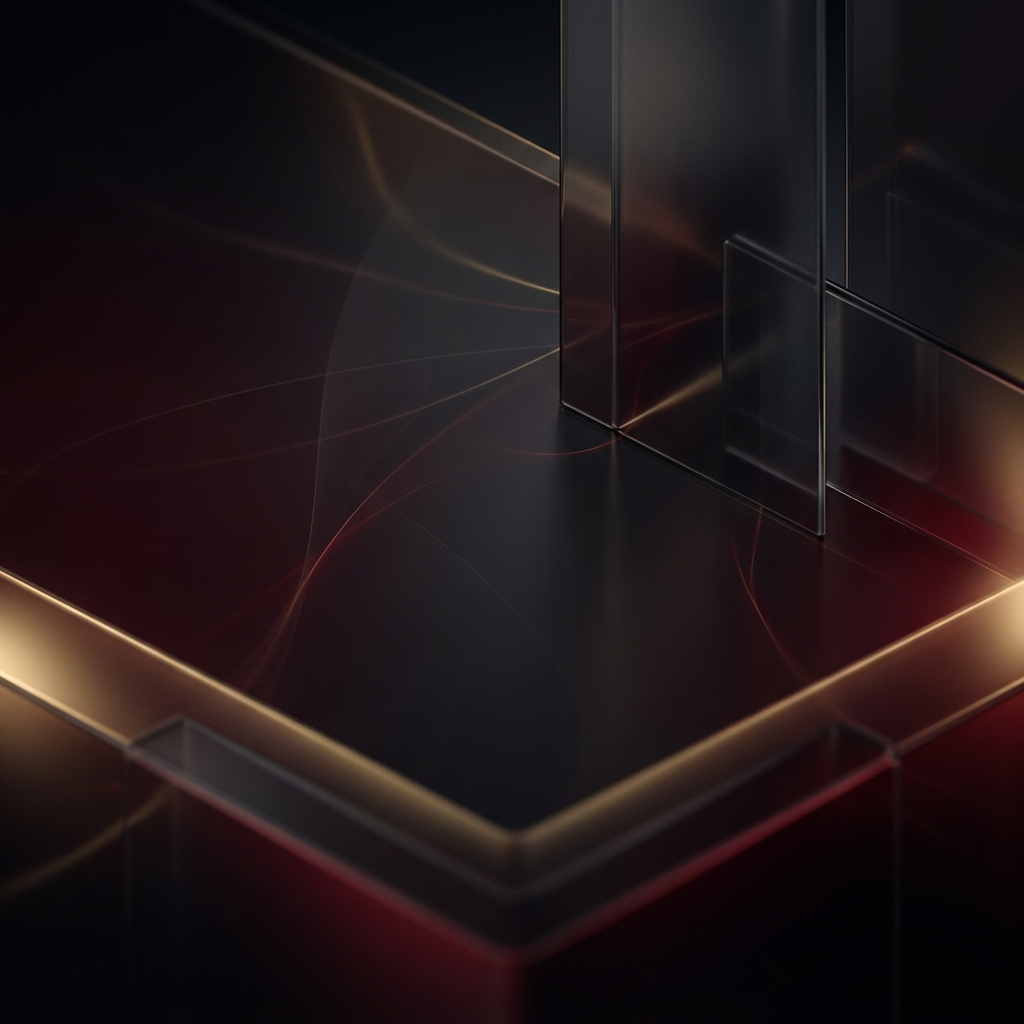
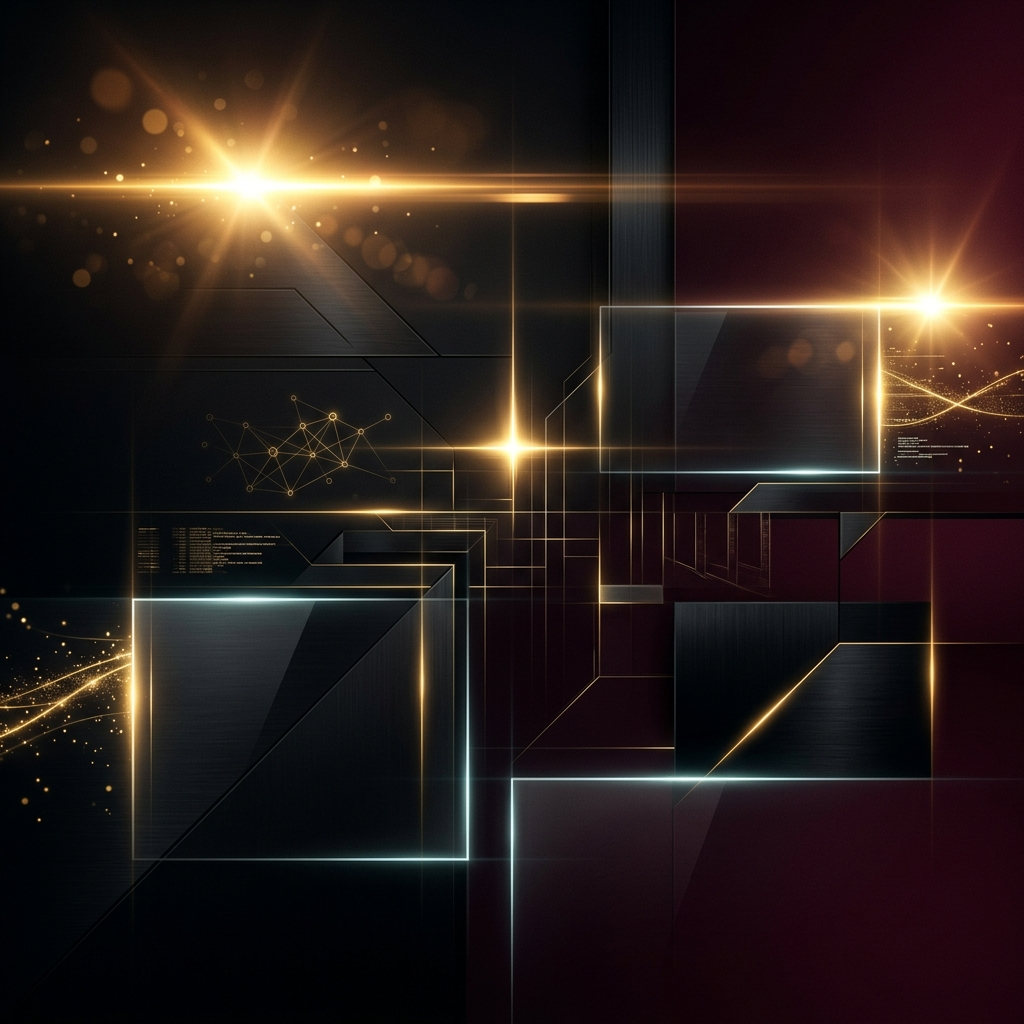
style: fix inline dark colors on cards and add bright flare background

diff --git a/src/pages/dashboard.jsx b/src/pages/dashboard.jsx
@@ -200,7 +200,7 @@ function ClientDash() {
           align-items: center;
           justify-content: center;
           font-size: 1rem;
-          color: #1A0A0D;
+          color: #fff;
           font-weight: 800;
           box-shadow: 0 4px 15px rgba(0,0,0,0.3);
           position: relative;
@@ -244,9 +244,9 @@ function ClientDash() {
             <div key={b._id} className="case-card-premium">
               <div style={s.biIcon}><Scale size={24} color="#7B1D2E" /></div>
               <div style={{flex:1}}>
-                <div style={{fontWeight:800,fontSize:'1.1rem', color:'#1A0A0D', marginBottom:4}}>{b.lawyerName}</div>
-                <div style={{fontSize:'0.85rem',color:'#5A3A42', fontWeight:600}}>{b.caseType} &nbsp;&bull;&nbsp; {fmt(b.scheduledDate)} at {b.scheduledTime}</div>
-                <div style={{fontSize:'0.85rem',color:'#5A3A42', fontWeight:600, marginTop:4}}>Case # {b.caseNumber} &nbsp;&bull;&nbsp; Fee: ₹{(b.fee||0).toLocaleString()}</div>
+                <div style={{fontWeight:800,fontSize:'1.1rem', color:'#fff', marginBottom:4}}>{b.lawyerName}</div>
+                <div style={{fontSize:'0.85rem',color:'#A09B9C', fontWeight:600}}>{b.caseType} &nbsp;&bull;&nbsp; {fmt(b.scheduledDate)} at {b.scheduledTime}</div>
+                <div style={{fontSize:'0.85rem',color:'#A09B9C', fontWeight:600, marginTop:4}}>Case # {b.caseNumber} &nbsp;&bull;&nbsp; Fee: ₹{(b.fee||0).toLocaleString()}</div>
                 {b.meetingLink && <a href={b.meetingLink} target="_blank" rel="noreferrer" style={{fontSize:'0.85rem',color:'#fff',fontWeight:800,marginTop:16,display:'inline-flex',alignItems:'center',gap:8, background:'#7B1D2E', padding:'.7rem 1.4rem', borderRadius: 12, textDecoration:'none', boxShadow:'0 6px 20px rgba(123, 29, 46, 0.25)'}}><Video size={16}/> Join Video Consultation</a>}
               </div>
               <StatusBadge status={b.status} />
@@ -287,8 +287,8 @@ function ClientDash() {
                 <div key={c.id} className="case-card-premium">
                   <div style={s.biIcon}><Briefcase size={24} color="#7B1D2E" /></div>
                   <div style={{flex:1}}>
-                    <div style={{fontWeight:800, fontSize:'1.1rem', marginBottom:4, color:'#1A0A0D'}}>{c.caseNumber}</div>
-                    <div style={{fontSize:'.85rem', color:'#5A3A42', fontWeight:600}}>{c.courtName} &nbsp;&bull;&nbsp; {c.lawyerName || 'Advocate not specified'}</div>
+                    <div style={{fontWeight:800, fontSize:'1.1rem', marginBottom:4, color:'#fff'}}>{c.caseNumber}</div>
+                    <div style={{fontSize:'.85rem', color:'#A09B9C', fontWeight:600}}>{c.courtName} &nbsp;&bull;&nbsp; {c.lawyerName || 'Advocate not specified'}</div>
                     {c.nextHearing && <div style={{fontSize:'.85rem', color:'#7B1D2E', fontWeight:800, marginTop:8, display:'inline-flex', alignItems:'center', gap:6, background: 'rgba(123, 29, 46, 0.05)', padding: '0.4rem 0.8rem', borderRadius: 8}}><Calendar size={14}/> Next Hearing: {fmt(c.nextHearing)}</div>}
                     <div style={{display:'flex', gap:10, marginTop:16}}>
                       <button className="btn btn-outline" onClick={() => showToast('Simulating document upload...')}>
@@ -320,9 +320,9 @@ function ClientDash() {
             <div key={c._id} className="case-card-premium">
               <div style={s.biIcon}><Scale size={24} color="#7B1D2E" /></div>
               <div style={{flex: 1}}>
-                <div style={{fontWeight:800, fontSize:'1.1rem', color:'#1A0A0D', marginBottom:4}}>{c.caseType}</div>
-                <div style={{fontSize:'0.85rem', color:'#5A3A42', fontWeight:600}}>Lawyer: {c.lawyerName}</div>
-                <div style={{fontSize:'0.85rem', color:'#5A3A42', fontWeight:600, marginTop:4}}>Case # {c.caseNumber} &nbsp;&bull;&nbsp; {fmt(c.scheduledDate)}</div>
+                <div style={{fontWeight:800, fontSize:'1.1rem', color:'#fff', marginBottom:4}}>{c.caseType}</div>
+                <div style={{fontSize:'0.85rem', color:'#A09B9C', fontWeight:600}}>Lawyer: {c.lawyerName}</div>
+                <div style={{fontSize:'0.85rem', color:'#A09B9C', fontWeight:600, marginTop:4}}>Case # {c.caseNumber} &nbsp;&bull;&nbsp; {fmt(c.scheduledDate)}</div>
                 
                 {c.meetingLink && (
                   <a href={c.meetingLink} target="_blank" rel="noreferrer" style={{fontSize:'0.85rem', color:'#fff', fontWeight:800, marginTop:16, display:'inline-flex', alignItems:'center', gap:8, background:'#7B1D2E', padding:'.7rem 1.4rem', borderRadius: 12, textDecoration:'none', boxShadow:'0 6px 20px rgba(123, 29, 46, 0.25)'}}>
@@ -331,10 +331,10 @@ function ClientDash() {
                 )}
                 
                 {c.updates?.length > 0 && (
-                  <div style={{marginTop: 16, background: '#FDF6EE', padding: '16px', borderRadius: 12, border: '1px solid rgba(123, 29, 46, 0.05)'}}>
+                  <div style={{marginTop: 16, background: 'rgba(0, 0, 0, 0.3)', padding: '16px', borderRadius: 12, border: '1px solid rgba(123, 29, 46, 0.05)'}}>
                     <div style={{fontSize:'.75rem', textTransform:'uppercase', fontWeight:800, color:'#C9943A', marginBottom:8}}>Latest Update</div>
-                    <div style={{fontWeight:700, fontSize:'.9rem', color:'#1A0A0D'}}>{c.updates[c.updates.length-1].title}</div>
-                    <div style={{fontSize:'.85rem', color:'#5A3A42', marginTop:4}}>{c.updates[c.updates.length-1].description}</div>
+                    <div style={{fontWeight:700, fontSize:'.9rem', color:'#fff'}}>{c.updates[c.updates.length-1].title}</div>
+                    <div style={{fontSize:'.85rem', color:'#A09B9C', marginTop:4}}>{c.updates[c.updates.length-1].description}</div>
                   </div>
                 )}
               </div>
@@ -364,8 +364,8 @@ function ClientDash() {
             <div key={d._id} className="case-card-premium">
               <div style={s.biIcon}><FileText size={24} color="#7B1D2E" /></div>
               <div style={{flex: 1}}>
-                <div style={{fontWeight:800, fontSize:'1.1rem', color:'#1A0A0D', marginBottom:4}}>{d.title}</div>
-                <div style={{fontSize:'0.85rem', color:'#5A3A42', fontWeight:600}}>Created {fmt(d.createdAt)}</div>
+                <div style={{fontWeight:800, fontSize:'1.1rem', color:'#fff', marginBottom:4}}>{d.title}</div>
+                <div style={{fontSize:'0.85rem', color:'#A09B9C', fontWeight:600}}>Created {fmt(d.createdAt)}</div>
               </div>
               <div style={{display:'flex', gap:12}}>
                 <button className="btn btn-outline" style={{padding: '0.6rem 1.2rem'}} onClick={() => window.open(d.fileUrl, '_blank')}><Download size={16}/> Download</button>
@@ -390,8 +390,8 @@ function ClientDash() {
                   </div>
                   <div style={{flex:1}}>
                     <div style={{fontWeight:800,fontSize:'1.1rem', color: '#fff', marginBottom: 6}}>{u.title}</div>
-                    <div style={{fontSize:'0.95rem',color:'#5A3A42', lineHeight:1.6}}>{u.description}</div>
-                    <div style={{fontSize:'0.8rem',color:'#5A3A42',marginTop:12, fontWeight:700, textTransform: 'uppercase', letterSpacing: '0.5px'}}>
+                    <div style={{fontSize:'0.95rem',color:'#A09B9C', lineHeight:1.6}}>{u.description}</div>
+                    <div style={{fontSize:'0.8rem',color:'#A09B9C',marginTop:12, fontWeight:700, textTransform: 'uppercase', letterSpacing: '0.5px'}}>
                       Case #{u.caseNumber} &nbsp;&bull;&nbsp; {fmt(u.createdAt)} &nbsp;&bull;&nbsp; Stage: {u.stage}
                     </div>
                   </div>
@@ -405,7 +405,7 @@ function ClientDash() {
       {tab === 'settings' && (
         <div style={s.section} className="dash-section-responsive">
           <h3 style={{...s.hTitle, marginBottom:'1.5rem'}}>Account Settings</h3>
-          <div style={{background:'#FDF6EE', border:'1px solid rgba(123, 29, 46, 0.05)', borderRadius:24, padding:'3rem', boxShadow: '0 10px 30px rgba(123, 29, 46, 0.05)'}}>
+          <div style={{background:'rgba(0, 0, 0, 0.3)', border:'1px solid rgba(255, 255, 255, 0.08)', borderRadius:24, padding:'3rem', boxShadow: '0 10px 30px rgba(123, 29, 46, 0.05)'}}>
             <div className="form-group" style={{marginBottom: '1.5rem'}}>
               <label style={{color: '#A09B9C'}}>Full Name</label>
               <input className="form-input-premium" type="text" value={user?.name||''} readOnly style={{opacity: 0.8}} />
@@ -561,19 +561,19 @@ function LawyerDash() {
         .form-input-premium {
           width: 100%;
           padding: 1rem 1.2rem;
-          border: 1.5px solid rgba(123, 29, 46, 0.1);
+          border: 1.5px solid rgba(255,255,255,0.1);
           border-radius: 16px;
           font-size: 0.95rem;
           font-family: inherit;
-          background: #FDF6EE;
-          color: #1A0A0D;
+          background: rgba(255,255,255,0.05);
+          color: #fff;
           transition: all 0.2s ease;
         }
         .form-input-premium:focus {
-          border-color: #7B1D2E;
-          box-shadow: 0 0 0 4px rgba(123, 29, 46, 0.1);
+          border-color: #E5B05C;
+          box-shadow: 0 0 0 4px rgba(201,148,58,0.15);
           outline: none;
-          background: #fff;
+          background: rgba(255,255,255,0.1);
         }
       `}</style>
       <div style={s.statsRow}>
@@ -603,10 +603,10 @@ function LawyerDash() {
             <div key={b._id} className="case-card-premium">
               <div style={s.biIcon}><User size={24} color="#7B1D2E" /></div>
               <div style={{flex:1}}>
-                <div style={{fontWeight:800,fontSize:'1.1rem', color:'#1A0A0D', marginBottom:4}}>{b.clientName}</div>
-                <div style={{fontSize:'0.85rem',color:'#5A3A42', fontWeight:600}}>{b.caseType} &nbsp;&bull;&nbsp; {fmt(b.scheduledDate)} at {b.scheduledTime}</div>
-                <div style={{fontSize:'0.85rem',color:'#5A3A42', fontWeight:600, marginTop:4}}>Case # {b.caseNumber} &nbsp;&bull;&nbsp; ₹{(b.fee||0).toLocaleString()}</div>
-                {b.description && <div style={{fontSize:'0.9rem',color:'#5A3A42', marginTop:12,fontStyle:'italic', background:'#FDF6EE', padding: '12px 16px', borderRadius: 12, borderLeft: '4px solid #7B1D2E'}}>"{b.description.slice(0,120)}{b.description.length>120?'...':''}"</div>}
+                <div style={{fontWeight:800,fontSize:'1.1rem', color:'#fff', marginBottom:4}}>{b.clientName}</div>
+                <div style={{fontSize:'0.85rem',color:'#A09B9C', fontWeight:600}}>{b.caseType} &nbsp;&bull;&nbsp; {fmt(b.scheduledDate)} at {b.scheduledTime}</div>
+                <div style={{fontSize:'0.85rem',color:'#A09B9C', fontWeight:600, marginTop:4}}>Case # {b.caseNumber} &nbsp;&bull;&nbsp; ₹{(b.fee||0).toLocaleString()}</div>
+                {b.description && <div style={{fontSize:'0.9rem',color:'#A09B9C', marginTop:12,fontStyle:'italic', background:'rgba(0, 0, 0, 0.3)', padding: '12px 16px', borderRadius: 12, borderLeft: '4px solid #E5B05C'}}>"{b.description.slice(0,120)}{b.description.length>120?'...':''}"</div>}
                 {b.meetingLink && <a href={b.meetingLink} target="_blank" rel="noreferrer" style={{fontSize:'0.85rem',color:'#fff',fontWeight:800,marginTop:16,display:'inline-flex',alignItems:'center',gap:8, background:'#7B1D2E', padding:'.7rem 1.4rem', borderRadius: 12, textDecoration:'none', boxShadow:'0 6px 20px rgba(123, 29, 46, 0.25)'}}><Video size={16}/>Join Video Call</a>}
               </div>
               <div style={{display:'flex',flexDirection:'column',gap:12,alignItems:'flex-end'}}>
@@ -622,7 +622,7 @@ function LawyerDash() {
       {tab === 'post' && (
         <div style={s.section} className="dash-section-responsive">
           <h3 style={{...s.hTitle, marginBottom:'2rem'}}>Post Case Update</h3>
-          <div style={{background:'#FDF6EE', border:'1px solid rgba(123, 29, 46, 0.05)', borderRadius:24, padding:'3rem', boxShadow: '0 10px 30px rgba(123, 29, 46, 0.05)'}}>
+          <div style={{background:'rgba(0, 0, 0, 0.3)', border:'1px solid rgba(255, 255, 255, 0.08)', borderRadius:24, padding:'3rem', boxShadow: '0 10px 30px rgba(123, 29, 46, 0.05)'}}>
             <div className="form-group">
               <label style={{color: '#A09B9C'}}>Select Booking / Case</label>
               <select className="form-input-premium" value={upForm.bookingId} onChange={e => setUpForm(f=>({...f,bookingId:e.target.value}))}>
@@ -661,8 +661,8 @@ function LawyerDash() {
       {tab === 'outcome' && (
         <div style={s.section} className="dash-section-responsive">
           <h3 style={{...s.hTitle, marginBottom:'0.5rem'}}>Log Closed Case Outcome</h3>
-          <p style={{color:'#5A3A42', fontSize:'.95rem',marginBottom:'2rem', fontWeight:600}}>Record outcomes of closed cases to help build platform-wide statistics for clients.</p>
-          <div style={{background:'#FDF6EE', border:'1px solid rgba(123, 29, 46, 0.05)', borderRadius:24, padding:'3rem', boxShadow: '0 10px 30px rgba(123, 29, 46, 0.05)'}}>
+          <p style={{color:'#A09B9C', fontSize:'.95rem',marginBottom:'2rem', fontWeight:600}}>Record outcomes of closed cases to help build platform-wide statistics for clients.</p>
+          <div style={{background:'rgba(0, 0, 0, 0.3)', border:'1px solid rgba(255, 255, 255, 0.08)', borderRadius:24, padding:'3rem', boxShadow: '0 10px 30px rgba(123, 29, 46, 0.05)'}}>
 
             <div className="form-group">
               <label style={{color: '#A09B9C'}}>Case Type / Practice Area</label>
@@ -677,7 +677,7 @@ function LawyerDash() {
               <div style={{display:'flex',gap:16,flexWrap:'wrap',marginTop:8}}>
                 {[['won','Won',<CheckCircle size={18}/>,'#22C55E','#F0FDF4'],['lost','Lost',<XCircle size={18}/>,'#EF4444','#FEF2F2'],['settled','Settled',<MinusCircle size={18}/>,'#F59E0B','#FFFBEB']].map(
                   ([val,label,icon,color,bg])=>(
-                    <label key={val} style={{display:'flex',alignItems:'center',gap:10,padding:'.8rem 1.6rem',borderRadius:50,border:`2px solid ${outcomeForm.outcome===val?color:'rgba(123, 29, 46, 0.1)'}`,background:outcomeForm.outcome===val?bg:'#fff',cursor:'pointer',fontWeight:800,fontSize:'.95rem',color:outcomeForm.outcome===val?color:'#5A3A42',transition:'all .2s', boxShadow: outcomeForm.outcome===val?'0 4px 15px rgba(0,0,0,0.05)':'none'}}>
+                    <label key={val} style={{display:'flex',alignItems:'center',gap:10,padding:'.8rem 1.6rem',borderRadius:50,border:`2px solid ${outcomeForm.outcome===val?color:'rgba(123, 29, 46, 0.1)'}`,background:outcomeForm.outcome===val?bg:'rgba(0, 0, 0, 0.5)',cursor:'pointer',fontWeight:800,fontSize:'.95rem',color:outcomeForm.outcome===val?color:'#A09B9C',transition:'all .2s', boxShadow: outcomeForm.outcome===val?'0 4px 15px rgba(0,0,0,0.05)':'none'}}>
                       <input type="radio" name="outcome" value={val} checked={outcomeForm.outcome===val} onChange={()=>setOutcomeForm(f=>({...f,outcome:val}))} style={{display:'none'}}/>
                       {icon}{label}
                     </label>
@@ -707,13 +707,13 @@ function LawyerDash() {
       {tab === 'profile' && (
         <div style={s.section} className="dash-section-responsive">
           <h3 style={{...s.hTitle, marginBottom:'1rem'}}>Practice Settings</h3>
-          <p style={{color:'#5A3A42', fontSize:'.95rem', marginBottom:'2.5rem', fontWeight:600}}>Update your specialization, fee, and availability status.</p>
-          <div style={{background:'#FDF6EE', border:'1px solid rgba(123, 29, 46, 0.05)', borderRadius:24, padding:'4rem 2rem', textAlign:'center', boxShadow:'0 10px 30px rgba(123, 29, 46, 0.05)'}}>
+          <p style={{color:'#A09B9C', fontSize:'.95rem', marginBottom:'2.5rem', fontWeight:600}}>Update your specialization, fee, and availability status.</p>
+          <div style={{background:'rgba(0, 0, 0, 0.3)', border:'1px solid rgba(255, 255, 255, 0.08)', borderRadius:24, padding:'4rem 2rem', textAlign:'center', boxShadow:'0 10px 30px rgba(123, 29, 46, 0.05)'}}>
             <div style={{width: 80, height: 80, borderRadius: '24px', background: 'rgba(123, 29, 46, 0.05)', border: '1px solid rgba(123, 29, 46, 0.1)', display: 'flex', alignItems: 'center', justifyContent: 'center', margin: '0 auto 1.5rem'}}>
               <User size={40} color="#7B1D2E" />
             </div>
-            <h4 style={{marginBottom:12, fontSize:'1.5rem', fontWeight:800, color:'#1A0A0D'}}>Profile Management</h4>
-            <p style={{fontSize:'1rem', color:'#5A3A42', marginBottom:'2rem', maxWidth: 400, margin: '0 auto 2rem', lineHeight: 1.6}}>Manage your public profile information, bar registration details, and practice areas.</p>
+            <h4 style={{marginBottom:12, fontSize:'1.5rem', fontWeight:800, color:'#fff'}}>Profile Management</h4>
+            <p style={{fontSize:'1rem', color:'#A09B9C', marginBottom:'2rem', maxWidth: 400, margin: '0 auto 2rem', lineHeight: 1.6}}>Manage your public profile information, bar registration details, and practice areas.</p>
             <button className="btn btn-outline" style={{padding: '0.8rem 1.6rem'}} onClick={() => showToast('Profile editor coming soon...')}>Edit Practice Details</button>
           </div>
         </div>
